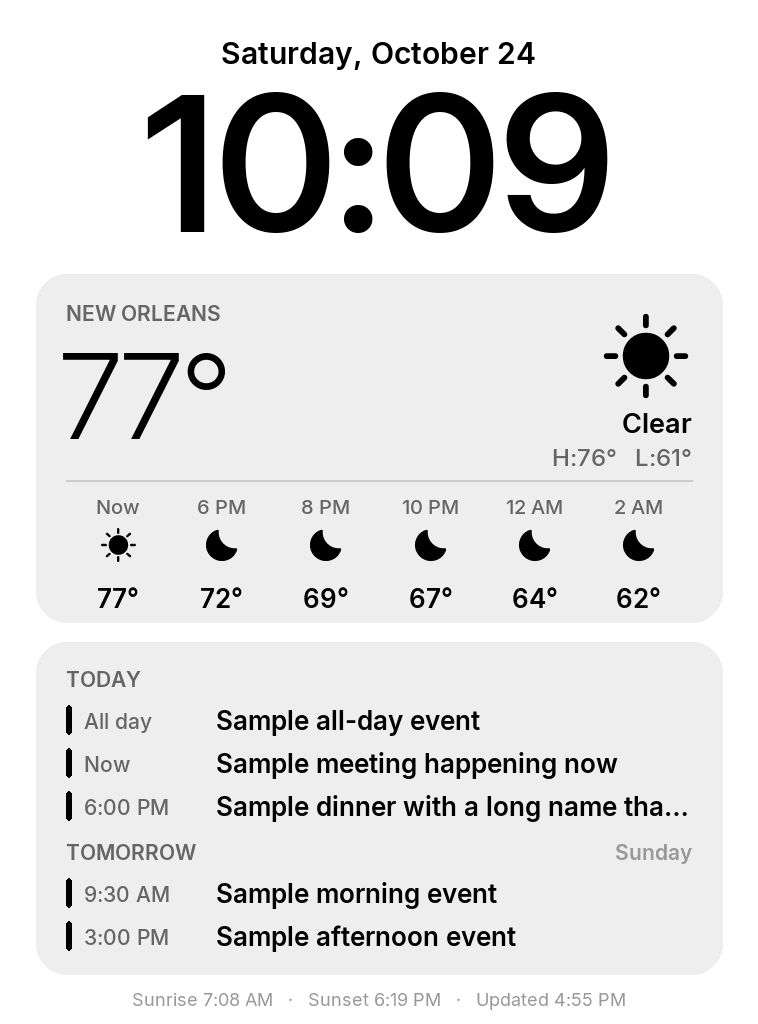
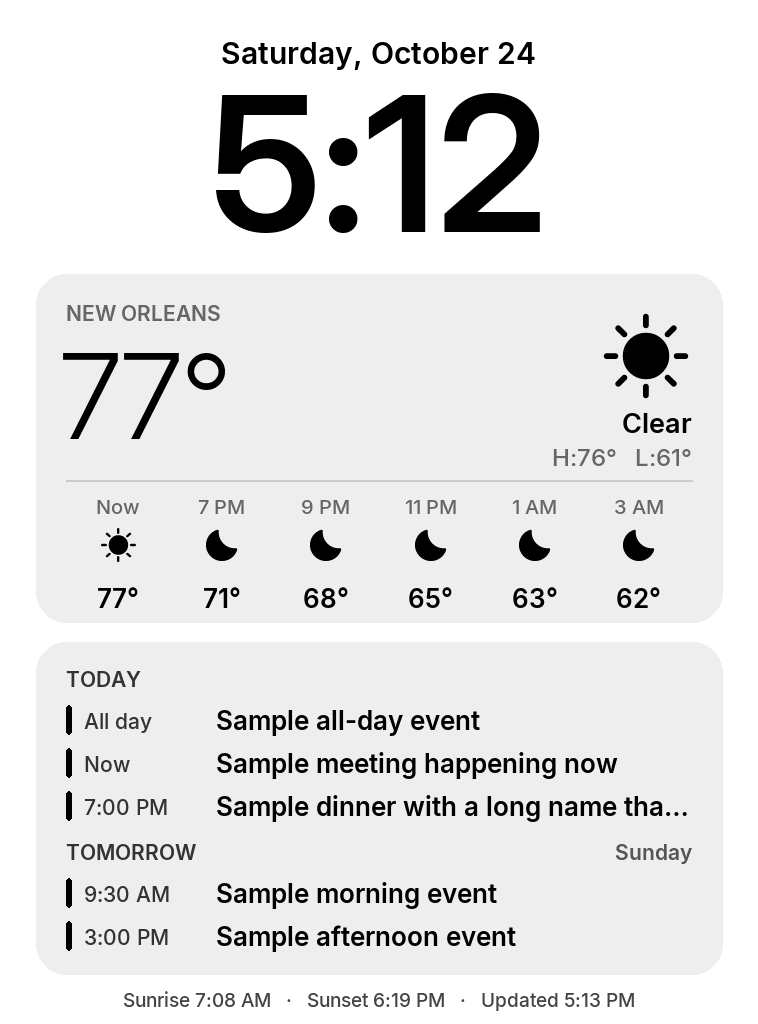
Darken calendar and footer text for e-ink

diff --git a/render/render.py b/render/render.py
@@ -25,7 +25,7 @@ from astral import LocationInfo
 from astral.sun import sun
 from icalendar import Calendar
 
-from common import (CARD, CLOCK_H, CLOCK_Y, H, HAIRLINE, INK, MARGIN, SECONDARY, TERTIARY, W,
+from common import (CARD, CLOCK_H, CLOCK_Y, H, HAIRLINE, INK, MARGIN, SECONDARY, W,
                     fit, font, new_canvas, save_fb_gz, text_w, to_eink)
 
 TZ = ZoneInfo("America/Chicago")
@@ -34,6 +34,11 @@ PLACE = os.environ.get("DASH_PLACE", "New Orleans")
 GRID = os.environ.get("NWS_GRID", "LIX/68,88")
 STATION = os.environ.get("NWS_STATION", "KMSY")
 NWS = "https://api.weather.gov"
+
+# The calendar card and footer use darker grays than the weather card; lighter ones wash out on e-ink.
+CAL_LABEL = 0x33
+CAL_MUTED = 0x55
+FOOT = 0x44
 UA = {"User-Agent": "kindle-dashboard (github.com/wwyyaatttt/kindle-dashboard)",
       "Accept": "application/geo+json"}
 
@@ -57,7 +62,7 @@ F = {
     "ev_time": font("Inter-Medium", 21),
     "ev_title": font("Inter-SemiBold", 26),
     "empty": font("Inter-Medium", 24),
-    "foot": font("Inter-Regular", 18),
+    "foot": font("Inter-Medium", 19),
 }
 
 
@@ -255,7 +260,7 @@ def draw_calendar(d, events: list[Event] | None, now: datetime, top: int, bottom
     L, R = MARGIN + 30, W - MARGIN - 30
     y = top + 24
     if events is None:
-        d.text((L, y), "Calendar unavailable", font=F["empty"], fill=SECONDARY)
+        d.text((L, y), "Calendar unavailable", font=F["empty"], fill=CAL_MUTED)
         return
 
     row_h, max_y = 43, bottom - 12
@@ -263,19 +268,19 @@ def draw_calendar(d, events: list[Event] | None, now: datetime, top: int, bottom
         day = now.date() + timedelta(days=offset)
         if y + 34 + row_h > max_y:
             break
-        d.text((L, y), heading, font=F["label"], fill=SECONDARY)
+        d.text((L, y), heading, font=F["label"], fill=CAL_LABEL)
         if offset:
-            d.text((R, y), day.strftime("%A"), font=F["label"], fill=TERTIARY, anchor="ra")
+            d.text((R, y), day.strftime("%A"), font=F["label"], fill=CAL_MUTED, anchor="ra")
         y += 34
         day_events = [e for e in events if e.day == day]
         if not day_events:
-            d.text((L, y + 4), "No more events" if offset == 0 else "No events", font=F["empty"], fill=TERTIARY)
+            d.text((L, y + 4), "No more events" if offset == 0 else "No events", font=F["empty"], fill=CAL_MUTED)
             y += row_h + 10
             continue
         for i, ev in enumerate(day_events):
             remaining = len(day_events) - i
             if y + row_h > max_y or (remaining > 1 and y + 2 * row_h > max_y):
-                d.text((L + 18, y + 6), f"+{remaining} more", font=F["ev_time"], fill=SECONDARY)
+                d.text((L + 18, y + 6), f"+{remaining} more", font=F["ev_time"], fill=CAL_LABEL)
                 y += row_h
                 break
             if ev.start is None:
@@ -285,7 +290,7 @@ def draw_calendar(d, events: list[Event] | None, now: datetime, top: int, bottom
             else:
                 when = fmt_time(ev.start)
             d.rounded_rectangle((L, y + 5, L + 5, y + row_h - 9), radius=3, fill=INK)
-            d.text((L + 18, y + 8), when, font=F["ev_time"], fill=SECONDARY)
+            d.text((L + 18, y + 8), when, font=F["ev_time"], fill=CAL_LABEL)
             d.text((L + 150, y + 4), fit(d, ev.title, F["ev_title"], R - L - 150), font=F["ev_title"], fill=INK)
             y += row_h
         y += 10
@@ -304,7 +309,7 @@ def render(now: datetime, wx: Weather | None, events: list[Event] | None):
 
     s = sun(LocationInfo(latitude=LAT, longitude=LON).observer, date=now.date(), tzinfo=TZ)
     foot = f"Sunrise {fmt_time(s['sunrise'])}   ·   Sunset {fmt_time(s['sunset'])}   ·   Updated {fmt_time(now)}"
-    d.text((W // 2, H - 36), foot, font=F["foot"], fill=TERTIARY, anchor="ma")
+    d.text((W // 2, H - 36), foot, font=F["foot"], fill=FOOT, anchor="ma")
     return to_eink(img)
 
 
